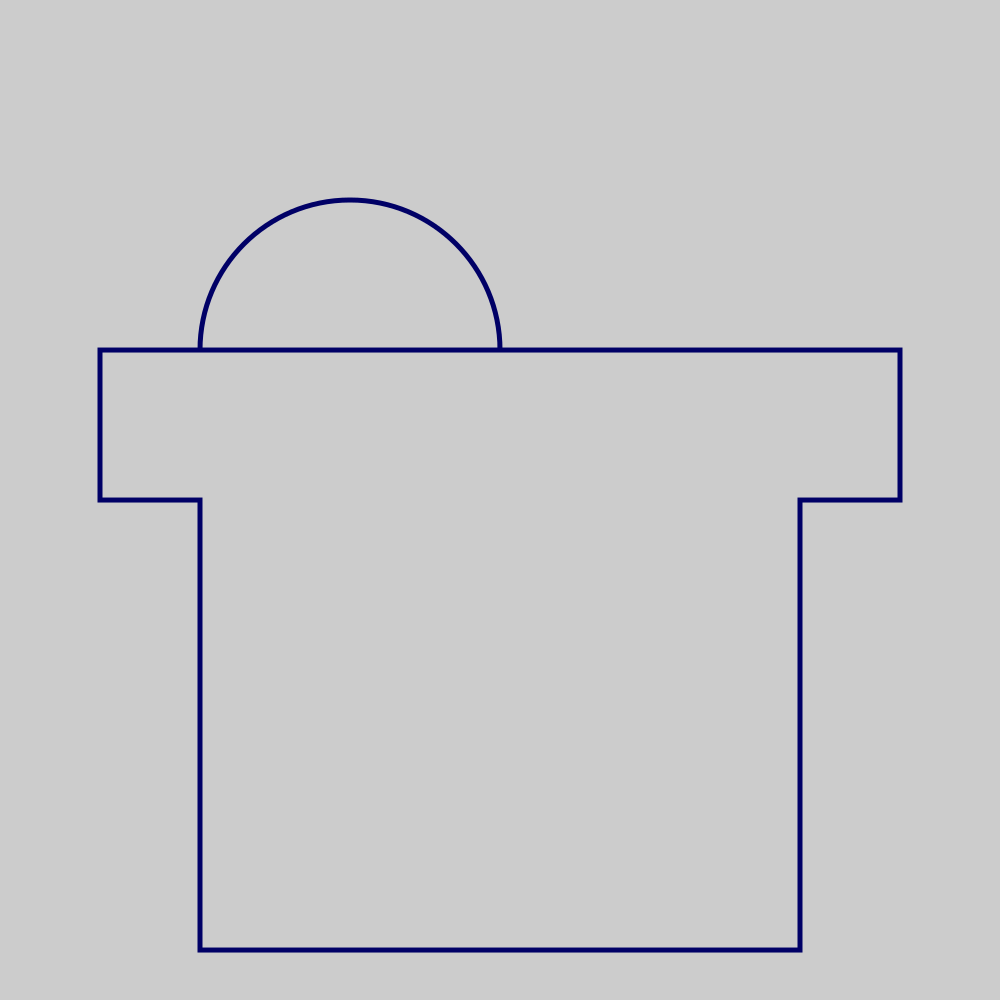
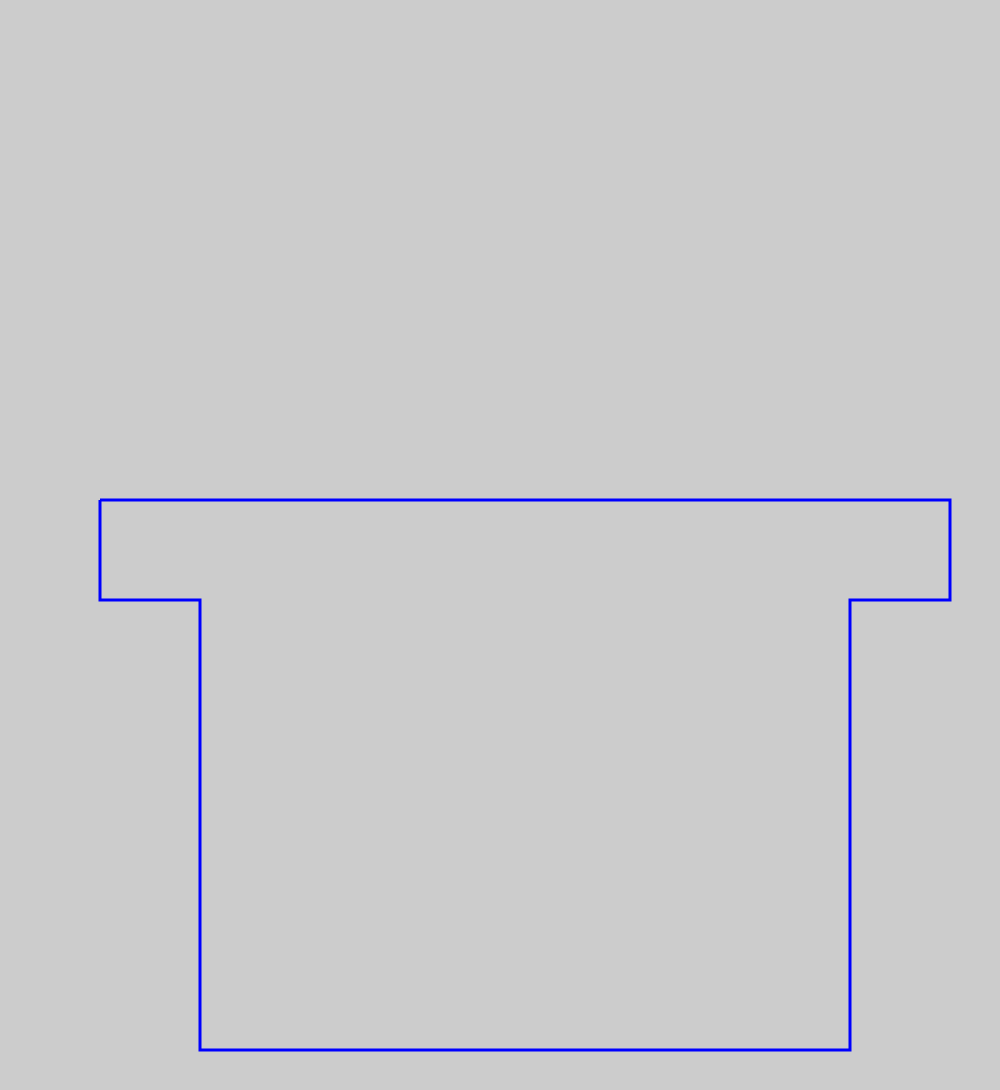
changed house dimensions

diff --git a/main.py b/main.py
@@ -2,39 +2,28 @@ import cairo
 import math
 
 def main():
-    surface =cairo.ImageSurface(cairo.FORMAT_RGB24, 1000, 1000)
+    surface =cairo.ImageSurface(cairo.FORMAT_RGB24, 1000, 1090)
     context = cairo.Context(surface)
     context.set_source_rgb(0.8, 0.8, 0.8)
     context.paint()
 
-    context.set_source_rgb(0, 0, 0.4)
-    context.set_line_width(5)
+    # context.set_source_rgb(0, 0, 0.4)
+    # context.set_line_width(5)
 
 
-
-    context.move_to(100, 350)
-    context.line_to(600, 350)#900, 350
-    context.arc(350, 350, 150, math.pi, 0)
-    context.line_to(900, 350)
-    context.line_to(900, 500)
-    context.line_to(800, 500)
-    context.line_to(800, 950)
-    context.line_to(200, 950)
-    context.line_to(200, 500)
+    # House Shape
+    context.move_to(100, 500)
+    context.line_to(950, 500)
+    context.line_to(950, 600)
+    context.line_to(850, 600)
+    context.line_to(850, 1050)
+    context.line_to(200, 1050)
+    context.line_to(200, 600)
+    context.line_to(100, 600)
     context.line_to(100, 500)
-
-    # context.line_to(600, 350)  # 900, 350
-    # context.line_to(600, 450)  # 900, 500
-    # context.line_to(550, 450)  # 800, 500
-    # context.line_to(550, 700)  # 800, 950
-    # context.line_to(150, 700)  # 200, 950
-    # context.line_to(150, 450)  # 200, 500
-    # context.line_to(100, 450)  # 100, 500
-
-
-
-
-
+    context.set_line_width(3)
+    context.set_source_rgb(0, 0.7, 1)
+    context.stroke()
 
     context.close_path()
     context.stroke()
